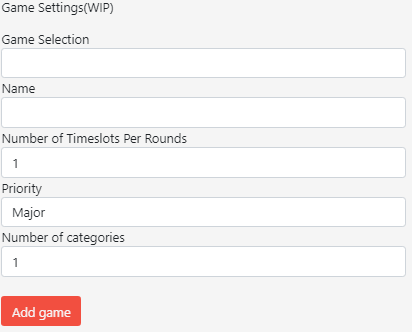
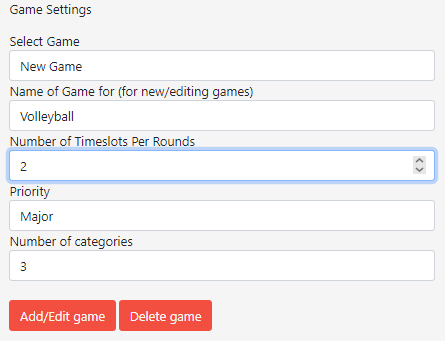
Spelling and UX changes.
Look at the title?

diff --git a/src/App.svelte b/src/App.svelte
@@ -117,6 +117,11 @@
                   Game Settings will be straight forward, fill it out appropriately and we will move on to the next area.
                   
                   Go ahead and leave this tutorial and do that, or press next in this modal for the next part of the tutorial.
+
+                  <br>
+
+                  Note: You know how Pisay timetables our subjects? A timeslot is exactly 1 box of that. You can set how much time
+                  said timeslot takes up.
                 </div>
                 <div class="modal-footer">
                   <button type="button" class="btn btn-secondary" data-bs-dismiss="modal">Close</button>
@@ -139,12 +144,10 @@
                   Next lets look at Game Settings.(Pictured below)
                   <img src="Images/SavGame.png" alt="Saving Game">
                   <br>
-                  To tell the algorithm what games the sportsfest has, you need to input them. Click 'Game Selection'and select 'New Game'.
-                  <img src="Images/GameSel.png" alt="Game Selection">
-                  <img src="Images/SelNew.png" alt="Selecting New Game">
+                  To tell the algorithm what games the sportsfest has, you need to input them.
                   <br>
                   
-                  Then fill out the information of the game. Please make sure all the inputs fields are filled. Once done, Click the 'Add Game' button. 
+                  Fill out the information of the game. Please make sure all the inputs fields are filled. Once done, Click the 'Add Game' button. 
 
                 </div>
                 <div class="modal-footer">
@@ -165,13 +168,14 @@
                   </button>
                 </div>
                 <div class="modal-body">
-                  Once you've inputted a game via the 'Add Game' button. It will now show on the 'Game Selection'.
+                  Once you've inputted a game via the 'Add Game' button. It will now show on the 'Select Game'.
                   <img src="Images/Example.png" alt="Example">
-                  <img src="Images/Saved.png" alt="Saving done right">
+               
                   <br>
-                  Be careful, make sure your game selection is put on 'New Game'. If its put on anything else, it will overwrite the data.
-                  Speaking of which, if you which to modify any game, selecting it from the selection and overwriting the data is how you do it.
-                  <img src="Images/Mistake.png" alt="Showing a mistake in saving game">
+                  If you want to edit or DELETE a specific game's data. Just have it selected on 'Select Game'.
+                  The games data will be shown on the input boxes below for you to view and change.
+                  Remember New Game to add New Games and 'Select' a game to be deleted or edited.
+                  
                 </div>
                 <div class="modal-footer">
                   <button type="button" class="btn btn-secondary" data-bs-dismiss="modal">Close</button>
@@ -194,10 +198,11 @@
                   Keep adding more games via selecting 'New Game', filling up the fields and then saving it until you are finished
                   Then please input your email here.
                   <img src="Images/GiveEmail.png" alt="Where to put email.">
+                  <br>
                   This is because the algorithm takes a bit of time. We don't want you to sit around waiting for it to finish so we'll give 
                   the final product to you via email when the algoritm has done it.
                   <br><br>
-                  That's all there is to the Schdeuler. Please enjoy the experience.
+                  That's all there is to the Scheduler. Please enjoy the experience.
 
                 </div>
                 <div class="modal-footer">
@@ -222,7 +227,7 @@
           <input type="number" class="form-control" id="n_timeslots_per_day" placeholder="1" bind:value={$sf.n_timeslots_day}/>
         </div>
         <div class="form-group">
-          <label for="timeslot_length">Length of Timeslot in Sportsfest</label>
+          <label for="timeslot_length">Length of Timeslot in Sportsfest (minutes)</label>
           <input type="number" class="form-control" id="timeslot_length" placeholder="1" bind:value={$sf.timeslot_length}/>
         </div>
         <div class="form-group">
@@ -236,7 +241,7 @@
       <div class="forms col-sm-12 col-md-4 pb-3">
         <p>Game Settings</p>
         <div class="form-group">
-          <label for="game-selection">Edit Game/New Game</label>
+          <label for="game-selection">Select Game</label>
           <select class="form-control" id="game-selection" bind:value={current_game} on:change={changeGameData}>
             <option>New Game</option>
             {#each game_names as g}
@@ -285,7 +290,27 @@
         <div id="emailHelp" class="form-text">We'll never share your email with anyone else.</div>
       </div>
       <br>
-      <button class="btn custom-color" on:click={submitData}>Submit data</button>
+      <button type="button" class="btn custom-color" on:click={submitData} data-bs-toggle="modal" data-bs-target="#warningModal">Submit Data</button>
+      <!-- Modal -->
+      <div class="modal fade" id="warningModal" tabindex="-1" role="dialog" aria-labelledby="exampleModalLabel" aria-hidden="true">
+        <div class="modal-dialog" role="document">
+          <div class="modal-content">
+            <div class="modal-header">
+              <h5 class="modal-title" id="exampleModalLabel">Tutorial</h5>
+              <button type="button" class="close" data-bs-dismiss="modal" aria-label="Close">
+                <span aria-hidden="true">&times;</span>
+              </button>
+            </div>
+            <div class="modal-body">
+              Data has been sent to the Algorithm. Please check email about 15 mins later.
+            </div>
+            <div class="modal-footer">
+              <button type="button" class="btn btn-secondary" data-bs-dismiss="modal">Close</button>
+            </div>
+          </div>
+        </div>
+      </div>
+      
     </form>  
   </div>
   
